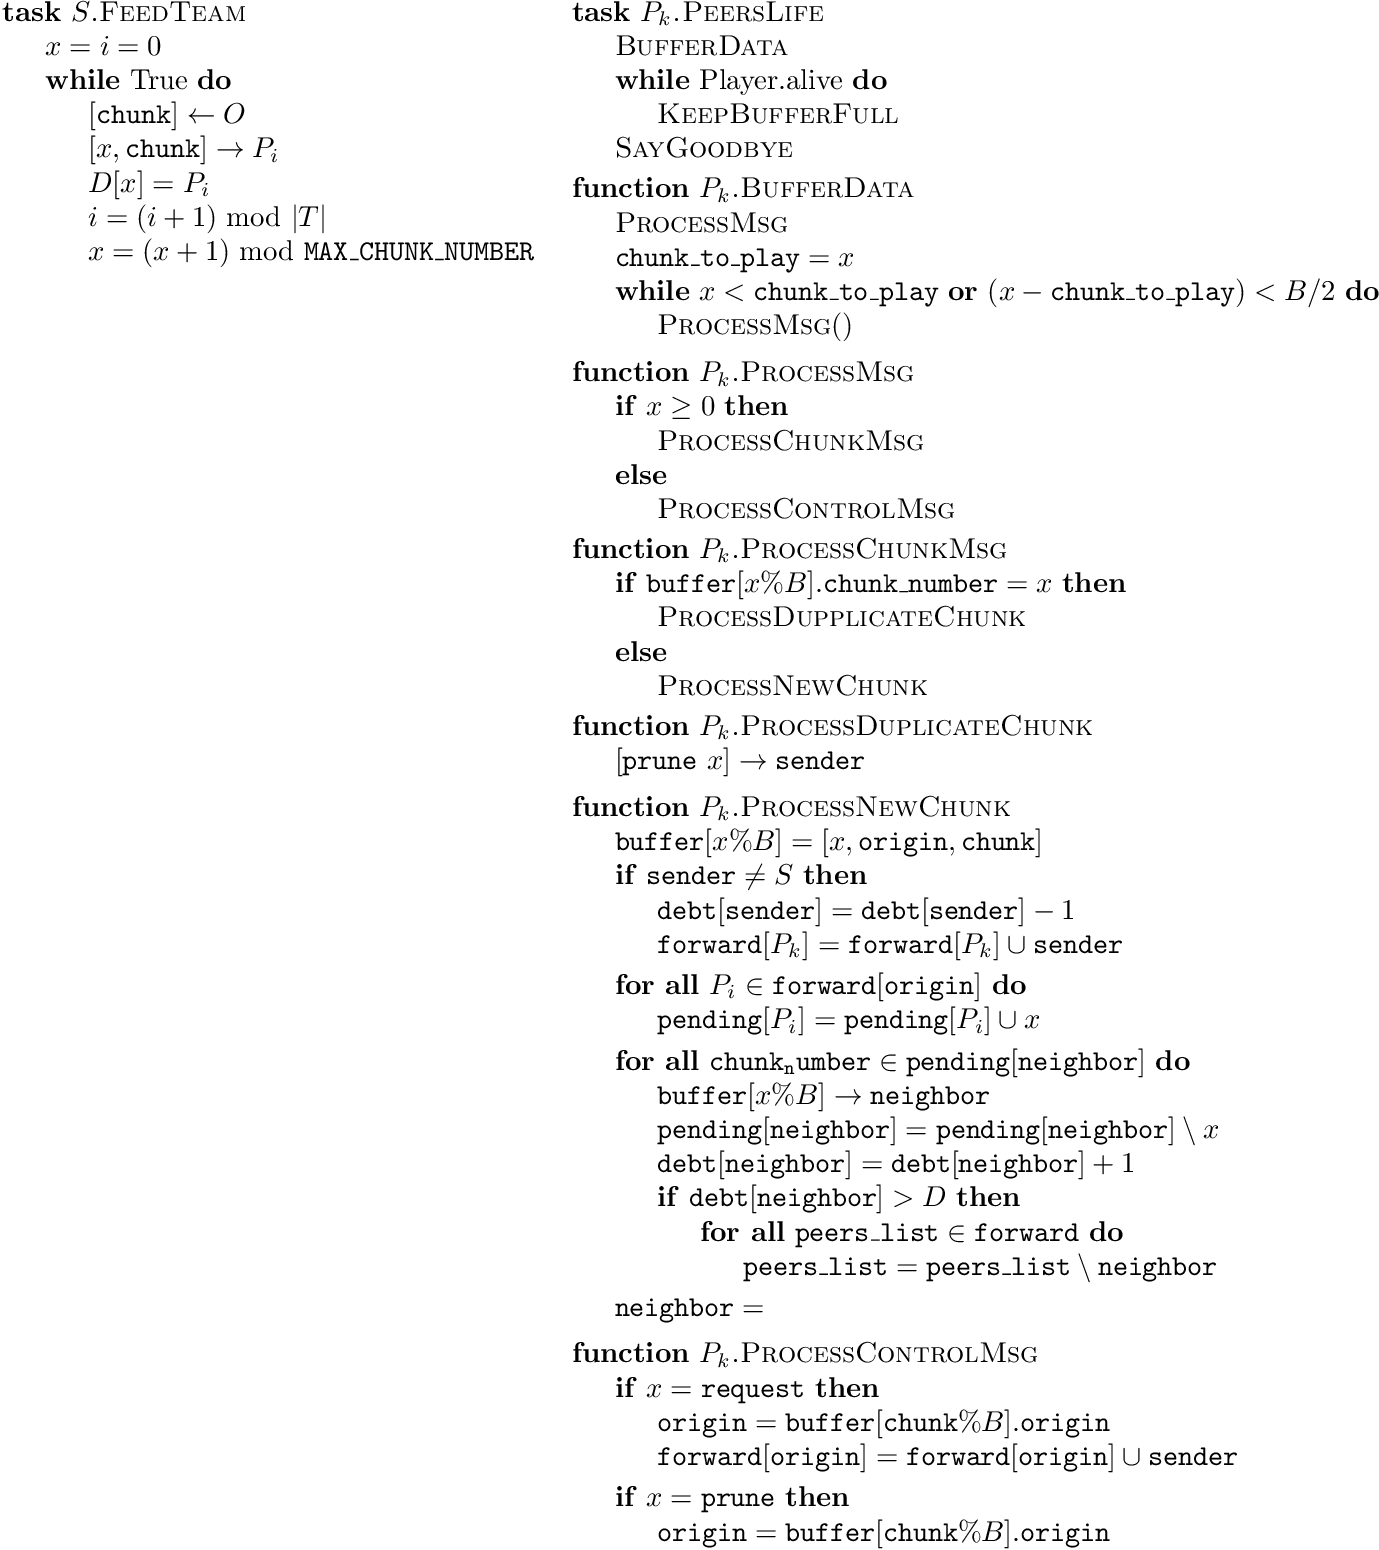
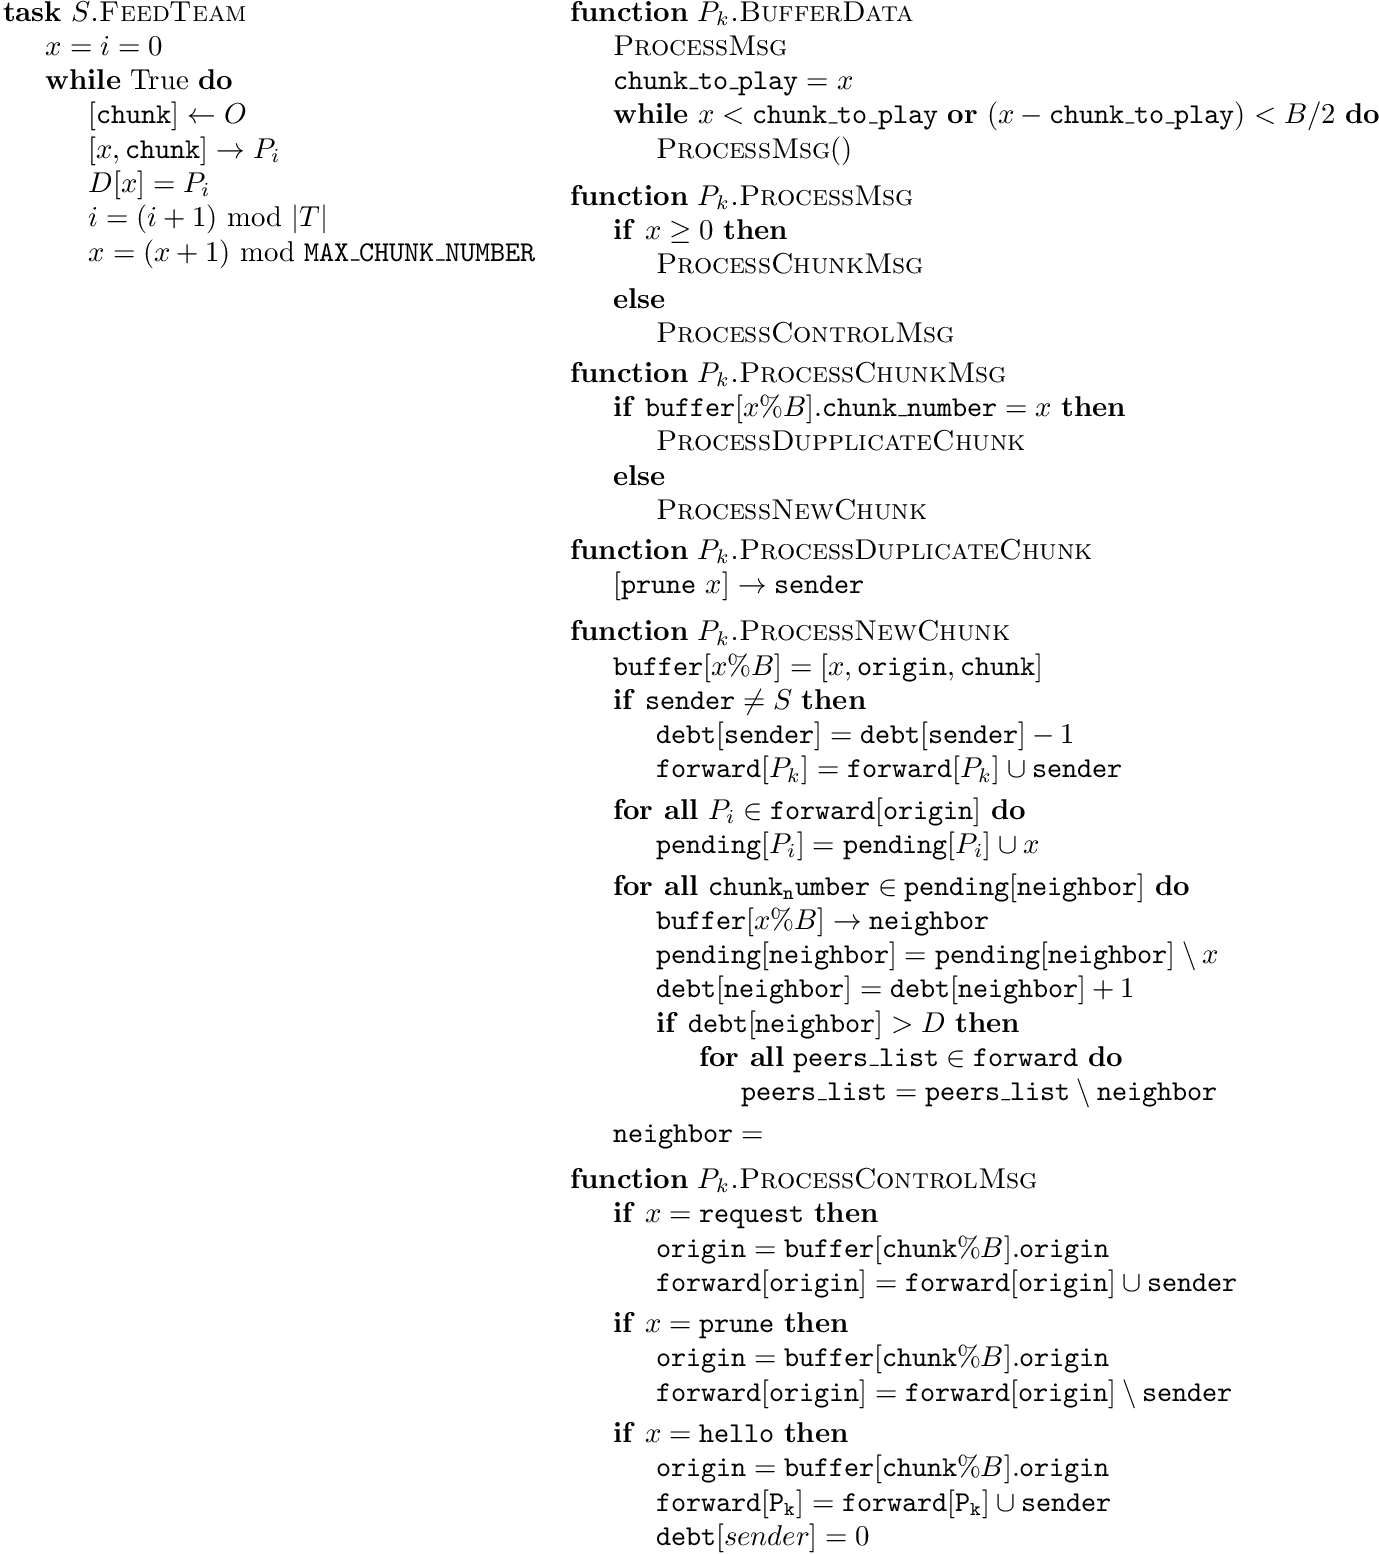
.

diff --git a/index.html b/index.html
@@ -24,7 +24,7 @@ src="http://cdn.mathjax.org/mathjax/latest/MathJax.js?config=TeX-AMS-MML_HTMLorM
  <div class="author" ><span 
 class="ecrm-1200">The P2PSP team</span></div><br />
 <div class="date" ><span 
-class="ecrm-1200">August 7, 2018</span></div>
+class="ecrm-1200">August 8, 2018</span></div>
    </div>
    <h3 class="likesectionHead"><a 
  id="x1-1000"></a>Contents</h3>
@@ -412,7 +412,7 @@ class="MathClass-close">}</mo></mrow></math>.
                                                                   
 
                                                                   
- <div style="text-align:center;"> <img width=300 src="graphics/peers_life.png" /> </div> 
+ <div style="text-align:center;"> <img width=200 src="graphics/peers_life.png" /> </div> 
 <br />     <div class="caption" 
 ><span class="id">Figure 1:        </span><span  
 class="content">Main        actions        carried        out        by        peer

diff --git a/DBS/buffer_data.tex b/DBS/buffer_data.tex
@@ -1,0 +1,10 @@
+\label{sec:buffer_chunks}
+
+\begin{figure*}
+  \fig{200}{3cm}{peers_life} \caption{Buffering of the chunks.\label{fig:buffer_chunks}}
+\end{figure*}
+
+Fig.~\ref{fig:buffer_chunks} shows how peer buffer the chunks before
+playing them. Notice that, because the chunks are not received in
+order, the first received chunk not always will be the first chunk in
+the buffer.

diff --git a/graphics/peers_life.tex b/graphics/peers_life.tex
@@ -13,12 +13,12 @@
 
 \begin{algorithmic}
 
-  \Procedure{$P_k$.PeersLife}{}
+  \Procedure{$P_k$.Peer'sLife}{Player}
   \State \textsc{BufferData}
   \While{Player.alive}
-  \State \textsc{KeepBufferFull}
+  \State \textsc{KeepTheBufferFull}
   \EndWhile
-  \State \textsc{SayGoodbye}
+  \State \textsc{LeaveTheTeam}
   \EndProcedure
     
 \end{algorithmic}

diff --git a/DBS/peers_life.tex b/DBS/peers_life.tex
@@ -1,7 +1,7 @@
 \label{sec:peers_life}
 
 \begin{figure*}
-  \fig{300}{3cm}{peers_life} \caption{Main actions carried out by peer
+  \fig{200}{3cm}{peers_life} \caption{Main actions carried out by peer
     $P_k$.\label{fig:peers_life}}
 \end{figure*}
 

diff --git a/DBS/body.tex b/DBS/body.tex
@@ -3,6 +3,9 @@
 \subsection{Peer's life}
 \input{DBS/peers_life}
 
+\subsection{Buffer data}
+\input{DBS/buffer_data}
+
 \subsection{Joining a team}
 \input{DBS/joining}
 
